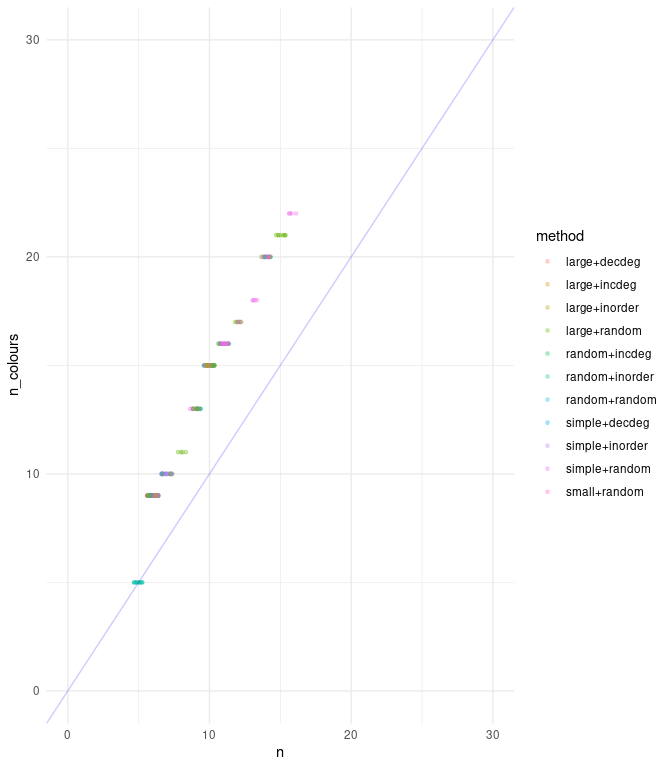
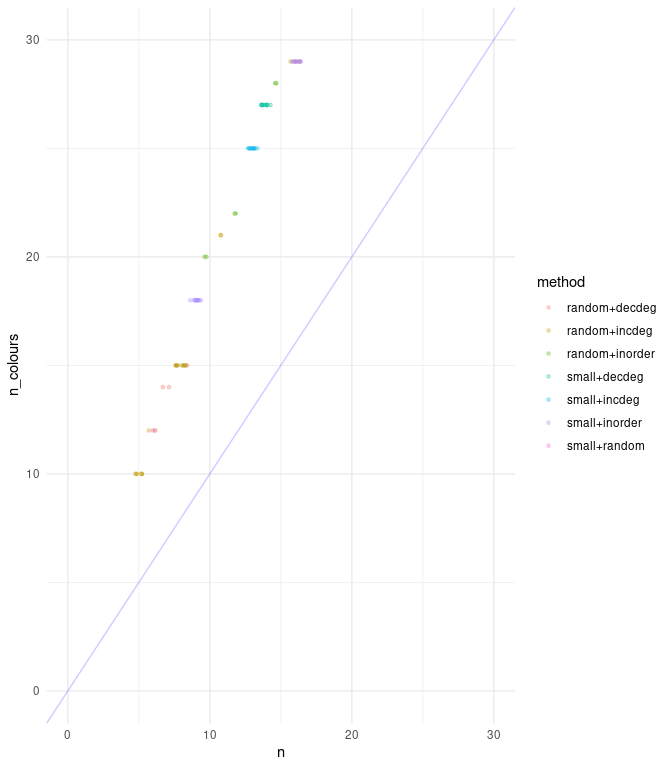
some apparently interesting results!

diff --git a/README.md b/README.md
@@ -7,6 +7,9 @@ Matthew Henderson
     ccli](#colouring-queen-graphs-in-r-with-ccli)
 -   [Minimal Number of Colours in a Greedy Colouring of a Queen
     Graph](#minimal-number-of-colours-in-a-greedy-colouring-of-a-queen-graph)
+    -   [Kempe Reductions](#kempe-reductions)
+    -   [Cheat](#cheat)
+-   [Grundy Number of a Queen Graph](#grundy-number-of-a-queen-graph)
 
 # Colouring Queen Graphs in R with ccli
 
@@ -24,7 +27,7 @@ queen_path <- here("graphs", "queen5_5.col")
 
 queen5 <- read_graph(queen_path, format = "dimacs")
 
-coloured_queen <- set_vertex_attr(queen5, "color", value = greedy(queen_path))
+coloured_queen <- set_vertex_attr(queen5, "color", value = ccli_greedy_colouring(queen_path))
 
 plot(queen5,
      vertex.size = 8,
@@ -39,6 +42,23 @@ plot(queen5,
 
 # Minimal Number of Colours in a Greedy Colouring of a Queen Graph
 
-![](figure/results_plot-1.png)<!-- -->
+``` r
+results <- read_rds(here("data", "results.rds"))
+
+results <- results %>%
+  mutate(
+    method = paste(type, ordering, sep = "+")
+  )
+```
+
+## Kempe Reductions
+
+![](figure/kempe_plot-1.png)<!-- -->
+
+## Cheat
+
+![](figure/cheat_plot-1.png)<!-- -->
+
+# Grundy Number of a Queen Graph
 
 ![](figure/other_results_plot-1.png)<!-- -->
